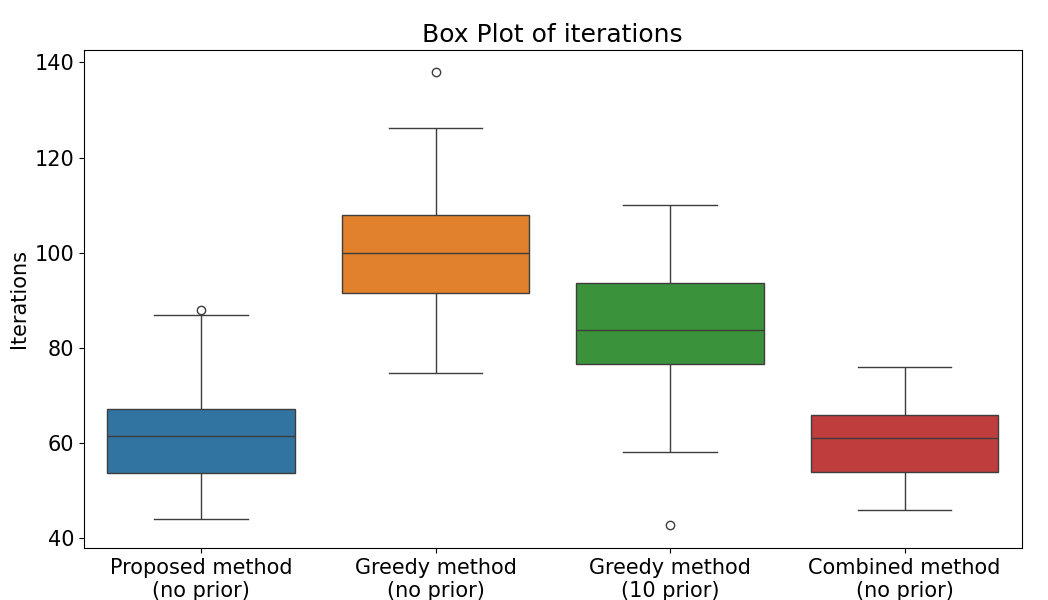
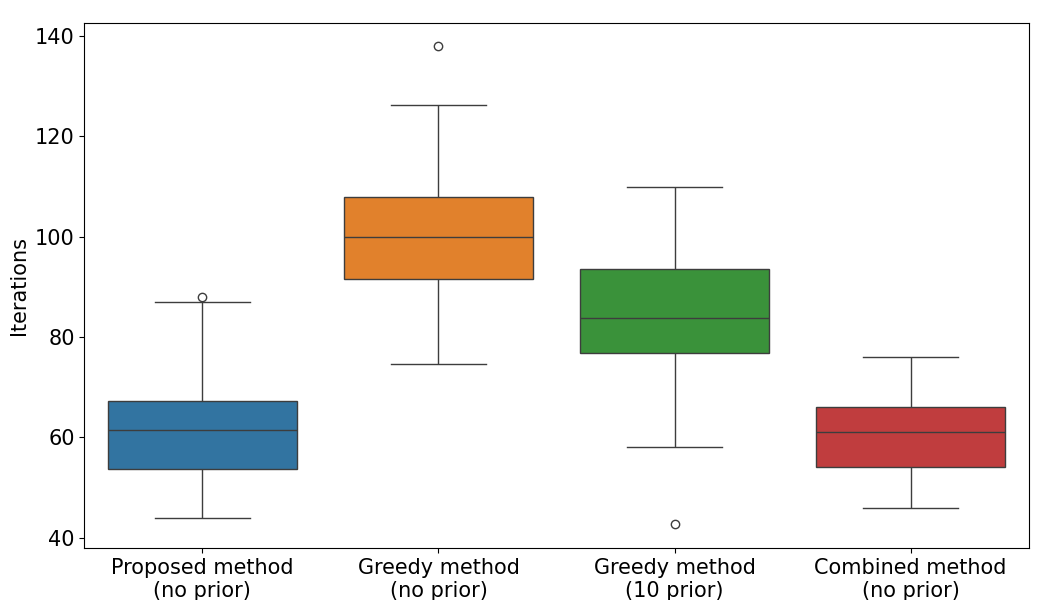
extreme case

diff --git a/record/draw_rmse.py b/record/draw_rmse.py
@@ -119,20 +119,21 @@ days_c = np.arange(1, mean_c.shape[0] + 1)
 days_gd_no = np.arange(1, mean_greedy_no_prior.shape[0] + 1)
 days_gd = np.arange(1, mean_greedy.shape[0] + 1)
 
-plt.plot(days_p, mean_p, label='Proposed method', color='blue')
+plt.xlim(-5, 125)
+
+plt.plot(days_p, mean_p, label='Proposed method (no prior)', color='blue')
 plt.fill_between(days_p, mean_p - 60*variance_p, mean_p + 60*variance_p, color='#7B9ED8', alpha=0.5)
 
 
-plt.plot(days_gd_no, mean_greedy_no_prior, label='Greedy method (no prior knowledge)', color='orange')
+plt.plot(days_gd_no, mean_greedy_no_prior, label='Greedy method (no prior)', color='orange')
 plt.fill_between(days_gd_no, mean_greedy_no_prior - 60*variance_greedy_no_prior, mean_greedy_no_prior + 60*variance_greedy_no_prior, color='orange', alpha=0.5)
 
-plt.plot(days_gd, mean_greedy, label='Greedy method (10 prior knowledge)', color='green')
+plt.plot(days_gd, mean_greedy, label='Greedy method (10 prior)', color='green')
 plt.fill_between(days_gd, mean_greedy - 60*variance_greedy, mean_greedy + 60*variance_greedy, color='lightgreen', alpha=0.5)
 
-plt.plot(days_c, mean_c, label='Combined method', color='red')
+plt.plot(days_c, mean_c, label='Combined method (no prior)', color='red')
 plt.fill_between(days_c, mean_c - 60*variance_c, mean_c + 60*variance_c, color='pink', alpha=0.5)
 
-plt.title('Decrease of weighted root mean square error')
 plt.xlabel('Iterations')
 plt.ylabel('WRMSE')
 plt.legend()

diff --git a/record/draw_iterations.py b/record/draw_iterations.py
@@ -8,14 +8,14 @@ plt.rcParams.update({'font.size': 15}) # 设置全局字号为12 rmse
 # 原始数据
 proposed_method_iterations = [56, 62, 44, 59, 48, 49, 75, 58, 50, 67, 63, 85, 59, 61, 57, 64, 68, 67, 74, 59, 78, 63, 52, 66, 76, 54, 62, 53, 49, 87, 52, 88]
 
-print(len(proposed_method_iterations))
 # 原始数据的均值和方差
 original_mean = np.mean(proposed_method_iterations)
 original_variance = np.var(proposed_method_iterations)
+print(original_mean, original_variance)
 
 BO_combined_iterations =     [76, 66, 47, 67, 56, 50, 66, 46, 64, 60, 71, 74, 66, 56, 58, 48, 61, 65, 54, 61, 62, 66, 60, 58, 46, 53, 54, 63, 46, 72, 68, 70]
-print(len(BO_combined_iterations))
 combined_mean = np.mean(BO_combined_iterations)
+print(combined_mean)
 combined_variance = np.var(BO_combined_iterations)
 
 
@@ -42,7 +42,6 @@ plt.figure(figsize=(9, 6))
 # palette = ["#E41A1C", "#FFD92F", "#377EB8", "#4DAF4A"]
 # sns.boxplot(data=[proposed_method_iterations, temperatures_2, temperatures_1,  BO_combined_iterations ], palette=palette)
 sns.boxplot(data=[proposed_method_iterations, temperatures_2, temperatures_1,  BO_combined_iterations ])
-plt.title('Box Plot of iterations')
 plt.tight_layout()
 plt.xticks([0, 1, 2, 3], ['Proposed method\n(no prior)', 'Greedy method\n(no prior)', 'Greedy method\n(10 prior)', 'Combined method\n(no prior)'])
 plt.ylabel('Iterations')

diff --git a/scripts/source_seeking_bo/environment/environment_and_measurement.py b/scripts/source_seeking_bo/environment/environment_and_measurement.py
@@ -3,7 +3,7 @@ from scipy.stats import multivariate_normal
 import numpy as np
 from matplotlib import pyplot as plt
 
-DEBUG = False
+DEBUG = True
 FIELD_SIZE = [10, 10]
 
 CAM_FOV = 0.4 # to distinguish whether this is one source or two source
@@ -19,7 +19,8 @@ BO_RADIUS = 0.5
 CTR_MAG_DETERMIN_STUCK = 0.15
 STUCK_PTS_THRESHOLD = 0.1 # smaller than this threshold are considered as the same stuck pt
 
-SOURCES_case = np.array([[[2,6], [8,7],[8,2], [5,6], [3,2]],  # 0
+SOURCES_case = np.array([ [[5,5], [9,9],[9,5], [5,9], [7,7]],
+    [[2,6], [8,7],[8,2], [5,6], [3,2]],  # 0
 [[3.0, 4.5], [6.5, 2.5], [2.5, 8.0], [5.5, 7.0], [8.0, 7.0]] ,
 [[8.0, 2.5], [2.5, 5.5], [7.5, 5.5], [4.5, 2.0], [6.0, 8.0]] , 
 [[8.0, 8.0], [6.0, 5.5], [6.0, 2.5], [2.0, 2.0], [3.5, 8.0]] , #3

diff --git a/scripts/source_seeking_bo/main.py b/scripts/source_seeking_bo/main.py
@@ -263,8 +263,8 @@ if __name__ == '__main__':
     robo_num = 3
     robot_locations = ROBOT_INIT_LOCATIONS_case[robot_ini_loc_index]
 
-    save_img_path = "/home/clp/catkin_ws/src/source_seeking/record/comparation_test/experiment_case_" + str(experiment_case) + ".png"
-    save_rmse_path = "/home/clp/catkin_ws/src/source_seeking/record/comparation_test/experiment_case_" + str(experiment_case) + ".txt"
+    save_img_path = "/home/clp/catkin_ws/src/source_seeking/record/special_case/experiment_case_" + str(experiment_case) + ".png"
+    save_rmse_path = "/home/clp/catkin_ws/src/source_seeking/record/special_case/experiment_case_" + str(experiment_case) + ".txt"
 
     #############################################################
     ## Define the source field

diff --git a/scripts/source_seeking/environment/environment_and_measurement.py b/scripts/source_seeking/environment/environment_and_measurement.py
@@ -16,7 +16,8 @@ FIELD_SIZE_Y = 10
 CTR_MAG_DETERMIN_STUCK = 0.15
 STUCK_PTS_THRESHOLD = 0.1 # smaller than this threshold are considered as the same stuck pt
 
-SOURCES_case = np.array([[[2,6], [8,7],[8,2], [5,6], [3,2]],  # 0
+SOURCES_case = np.array([ [[5,5], [9,9],[9,5], [5,9], [7,7]],
+    [[2,6], [8,7],[8,2], [5,6], [3,2]],  # 0
 [[3.0, 4.5], [6.5, 2.5], [2.5, 8.0], [5.5, 7.0], [8.0, 7.0]] ,
 [[8.0, 2.5], [2.5, 5.5], [7.5, 5.5], [4.5, 2.0], [6.0, 8.0]] , 
 [[8.0, 8.0], [6.0, 5.5], [6.0, 2.5], [2.0, 2.0], [3.5, 8.0]] , #3
@@ -93,4 +94,5 @@ if __name__ == '__main__':
 
         plt.contourf(X_test_xx, X_test_yy, env.f(X_test).reshape(test_resolution))
         plt.show()
+        break
     
